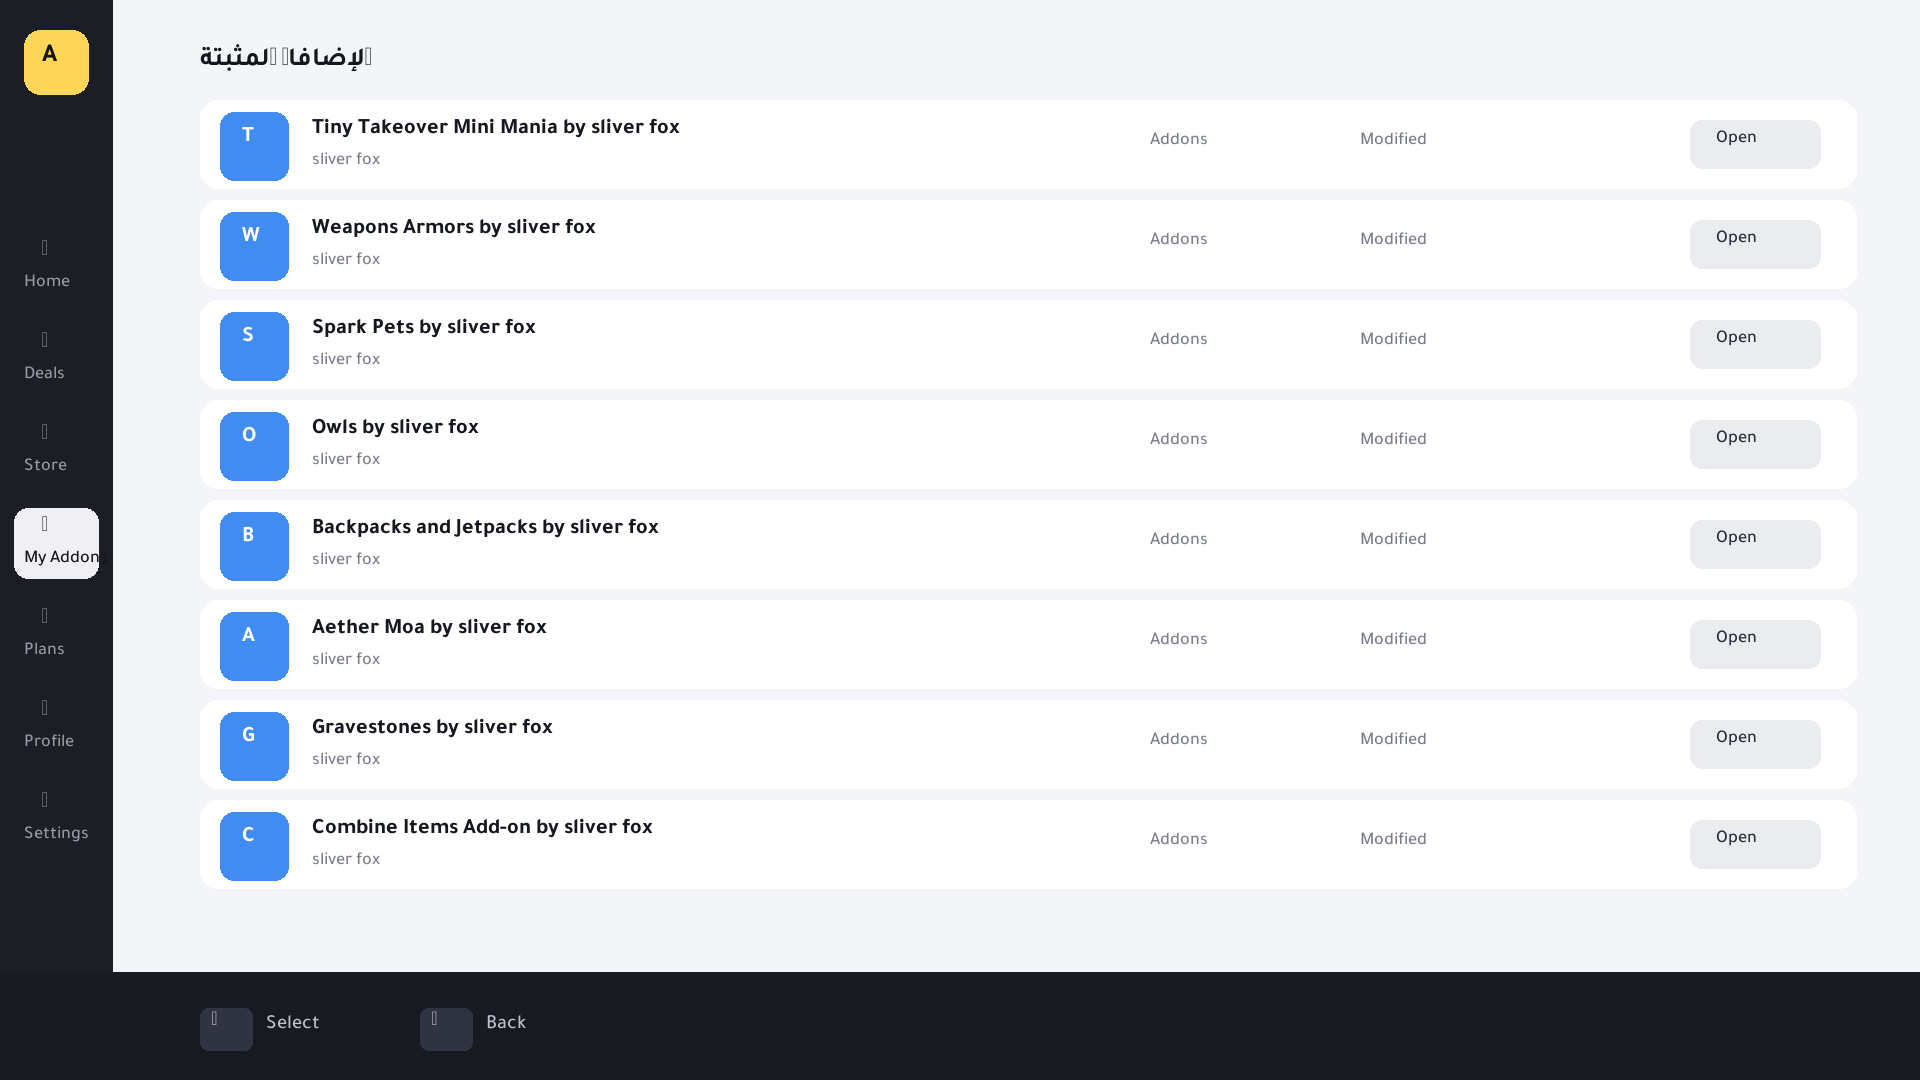
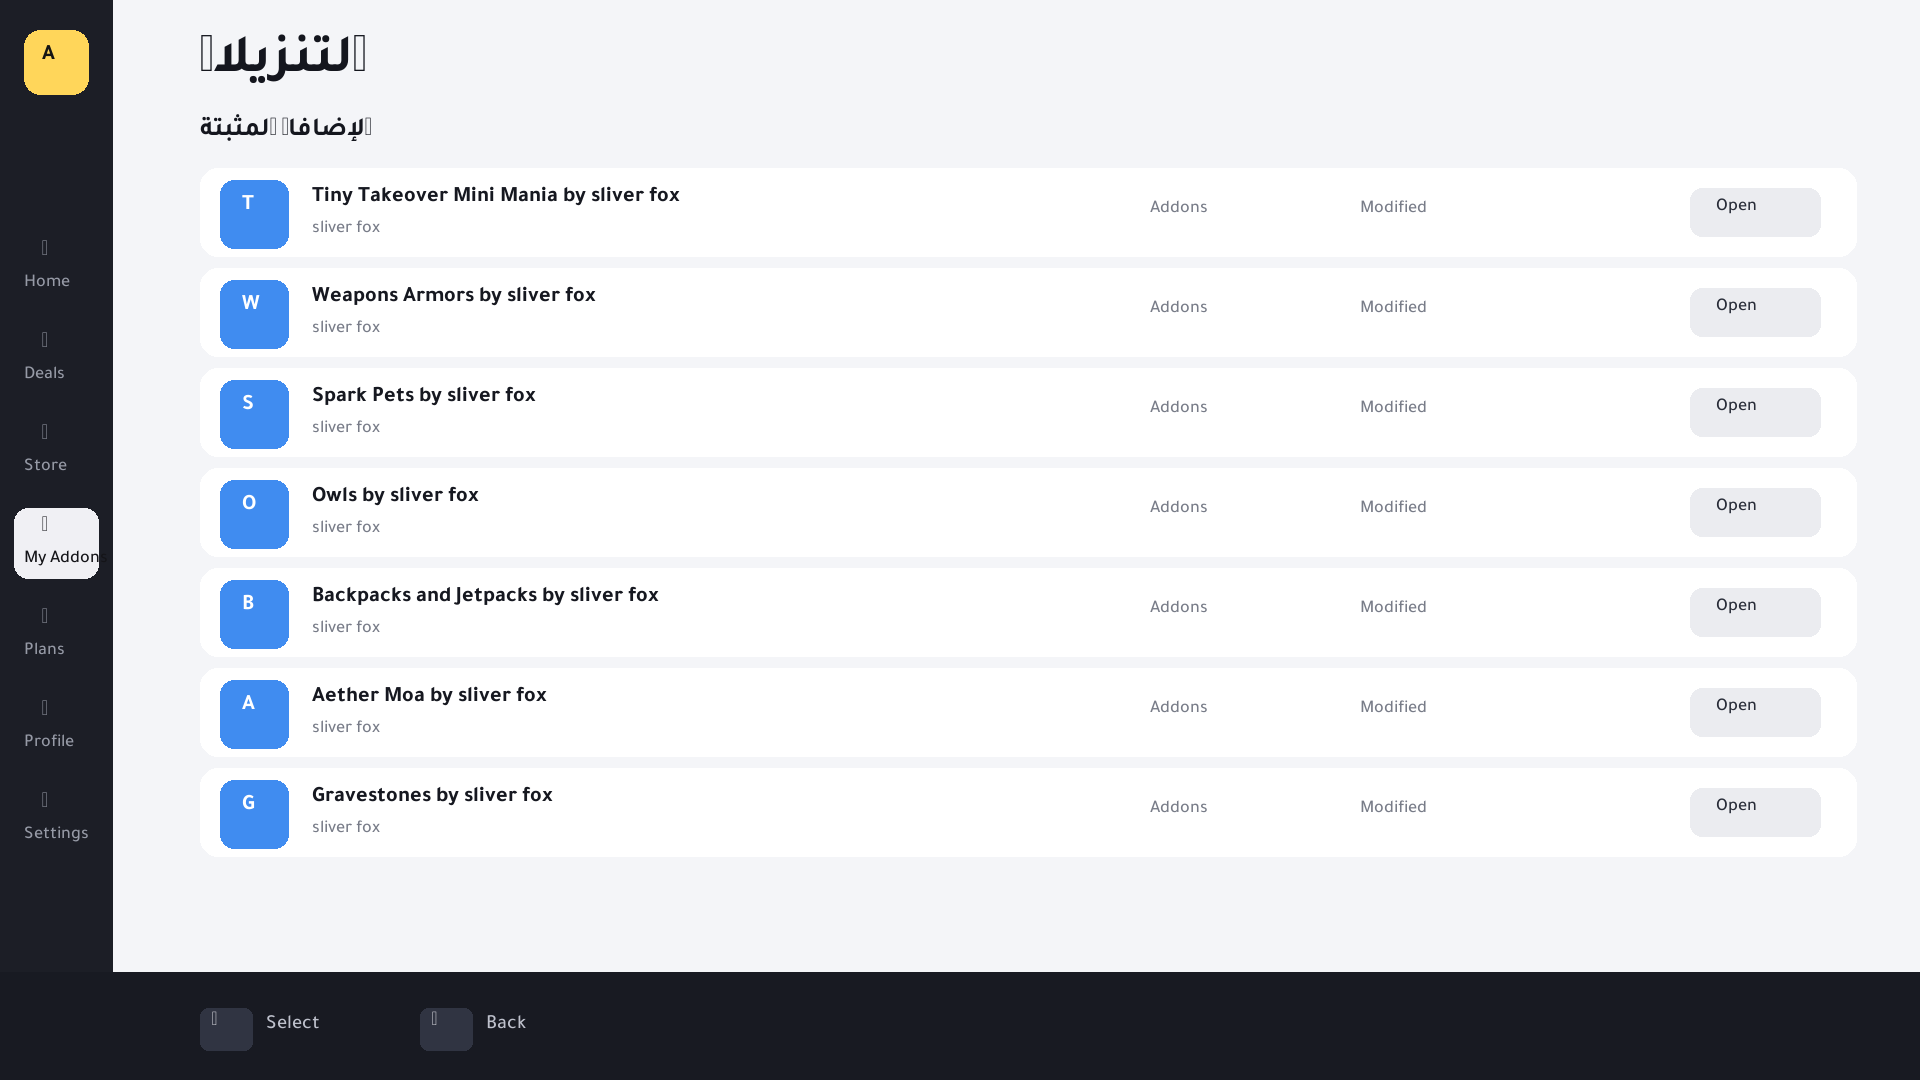
v0.65c: «DOWNLOADS بس ذي خليها» — the Mine page title stays but says ONLY 'Downloads' (8 langs: Downloads/التنزيلات/Téléchargements/İndirmeler/Descargas/Загрузки/下载). Subtitle + Check-for-updates button remain deleted. Rows at y=168 (7 visible). host-test PASS. [skip ci]

diff --git a/ps4-addon-test/src/screens.cpp b/ps4-addon-test/src/screens.cpp
@@ -158,8 +158,7 @@ const std::map<std::string, std::map<std::string, std::string>>& stringTable() {
         {"up_to_50", {{"en", "50% off all addons and worlds"}, {"ar", "خصم 50٪ على كل الإضافات والعوالم"}, {"fr", "-50% sur tous les addons et mondes"}, {"tr", "Tüm eklenti ve dünyalarda %50 indirim"}, {"es", "50% de descuento en todos los addons y mundos"}, {"ru", "Скидка 50% на все аддоны и миры"}, {"pt", "50% de desconto em todos os addons e mundos"}, {"zh", "所有附加包和世界五折优惠"}}},
         {"nav_search", {{"en", "Search"}, {"ar", "\u0628\u062d\u062b"}, {"fr", "Recherche"}, {"tr", "Ara"},
                          {"es", "Buscar"}, {"ru", "\u041f\u043e\u0438\u0441\u043a"}, {"pt", "Pesquisar"}, {"zh", "\u641c\u7d22"}}},
-        {"mine_title", {{"en", "Updates & downloads"}, {"ar", "\u0627\u0644\u062a\u062d\u062f\u064a\u062b\u0627\u062a \u0648\u0627\u0644\u062a\u0646\u0632\u064a\u0644\u0627\u062a"}, {"fr", "Mises \u00e0 jour et t\u00e9l\u00e9chargements"}, {"tr", "G\u00fcncellemeler ve indirmeler"},
-                       {"es", "Actualizaciones y descargas"}, {"ru", "\u041e\u0431\u043d\u043e\u0432\u043b\u0435\u043d\u0438\u044f \u0438 \u0437\u0430\u0433\u0440\u0443\u0437\u043a\u0438"}, {"pt", "Atualiza\u00e7\u00f5es e downloads"}, {"zh", "\u66f4\u65b0\u4e0e\u4e0b\u8f7d"}}},
+        {"mine_title", {{"en", "Downloads"}, {"ar", "\u0627\u0644\u062a\u0646\u0632\u064a\u0644\u0627\u062a"}, {"fr", "T\u00e9l\u00e9chargements"}, {"tr", "\u0130ndirmeler"}, {"es", "Descargas"}, {"ru", "\u0417\u0430\u0433\u0440\u0443\u0437\u043a\u0438"}, {"pt", "Downloads"}, {"zh", "\u4e0b\u8f7d"}}},
         {"mine_sub", {{"en", "Every addon installed on this console \u2014 with its own pack icon"},
                       {"ar", "\u0643\u0644 \u0627\u0644\u0625\u0636\u0627\u0641\u0627\u062a \u0627\u0644\u0645\u062b\u0628\u062a\u0629 \u0639\u0644\u0649 \u0647\u0630\u0627 \u0627\u0644\u062c\u0647\u0627\u0632 \u2014 \u0628\u0623\u064a\u0642\u0648\u0646\u062a\u0647\u0627 \u0627\u0644\u0623\u0635\u0644\u064a\u0629"},
                       {"fr", "Tous les addons install\u00e9s sur cette console \u2014 avec leur propre ic\u00f4ne"},
@@ -3803,16 +3802,17 @@ void drawMine(UiEngine& e, int focus, const std::string& langCode) {
     backdrop(e);
     drawTopNav(e, 6, langCode);
     const int cx = kCL + 20, cw = kCR - cx;
-    // v0.65c («التي في الدوائر الزرقاء تحذفها»): NO page title, NO subtitle,
-    // NO «Check for updates» button — the list starts clean at the top.
+    // v0.65c («التي في الدوائر الزرقاء تحذفها» + «DOWNLOADS بس ذي خليها»):
+    // the title stays but says ONLY «Downloads» — no subtitle, no «Check for updates».
+    pageTitle(e, L, tr("mine_title", lang), cx, 36);
     // section label
     e.drawText(tr("mine_recent", lang), L.X(cx, e.measureText(tr("mine_recent", lang), 26, FontRole::Body, L.rtl)),
-               48, 26, kTX, FontRole::Body, L.rtl);
+               118, 26, kTX, FontRole::Body, L.rtl);
 
     const std::vector<int> items = viewItems(View::Mine, 0);
-    const int rowH = 100, pitch = 110, top = 88;
+    const int rowH = 100, pitch = 110, top = 168;
     const int scroll = scrollOf(View::Mine);
-    const int visible = 8;
+    const int visible = 7;
     if (items.empty()) {
         emptyState(e, L, cx, top, cw, 964 - top, 12, tr("mine_empty_t", lang), tr("mine_empty_s", lang));
         drawLegendBar(e, {{"\xE2\x9C\x95", "select"}, {"\xE2\x97\x8B", "back"}}, langCode);

diff --git a/ps4-addon-test/src/main.cpp b/ps4-addon-test/src/main.cpp
@@ -999,7 +999,7 @@ static void clampScroll() {
     else if (A.scr == Scr::Deals) { idx = A.focus - 5; view = View::Deals; }
     else if (A.scr == Scr::Store) { idx = A.focus; view = View::Store; }
     else if (A.scr == Scr::Search) { idx = A.focus - 4; view = View::Search; win = 5; }  // single-row render
-    else if (A.scr == Scr::Mine)   { idx = A.focus;  view = View::Mine;  win = 8; cols = 1; }   // v0.65c: 8 rows, no button
+    else if (A.scr == Scr::Mine)   { idx = A.focus;  view = View::Mine;  win = 7; cols = 1; }   // v0.65c: rows 0..N-1 (no check button)
     if (idx < 0) return;
     int first = (std::max(0, scrollOf(view)) / cols) * cols;
     if (idx < first) first = (idx / cols) * cols;
